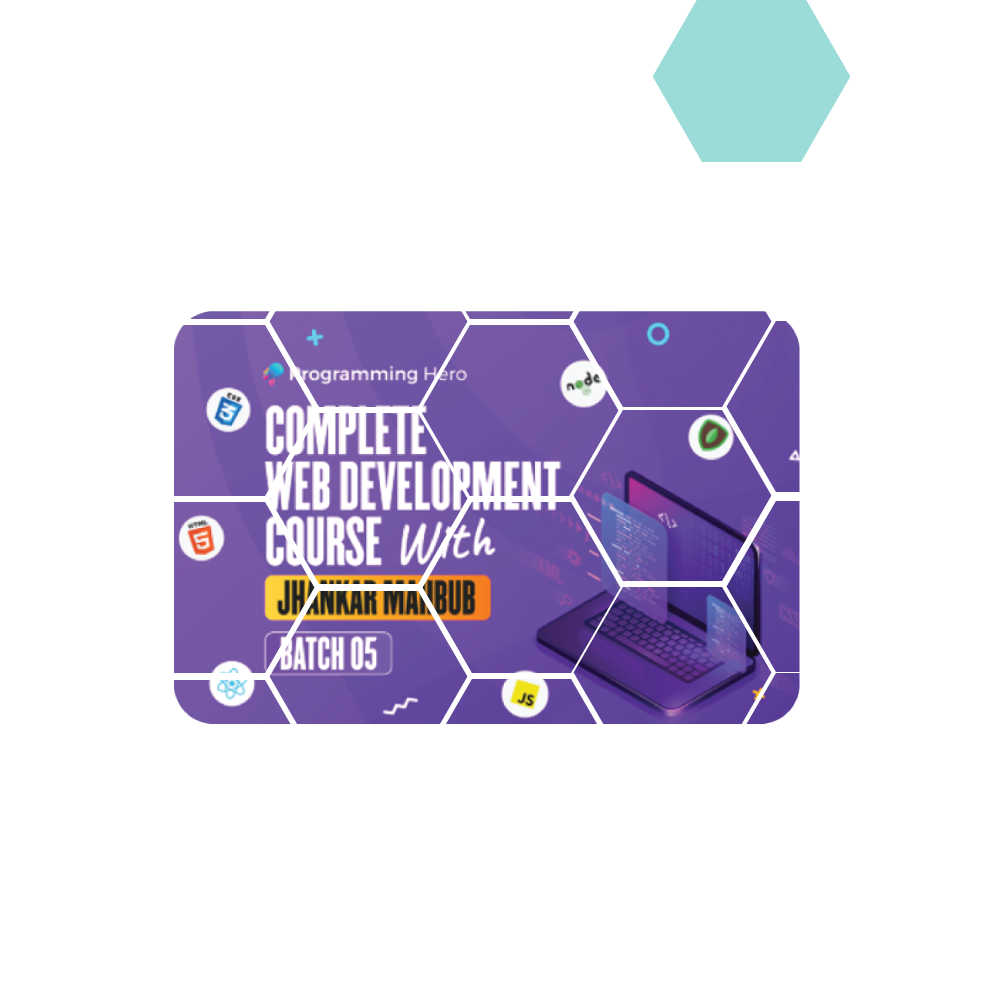
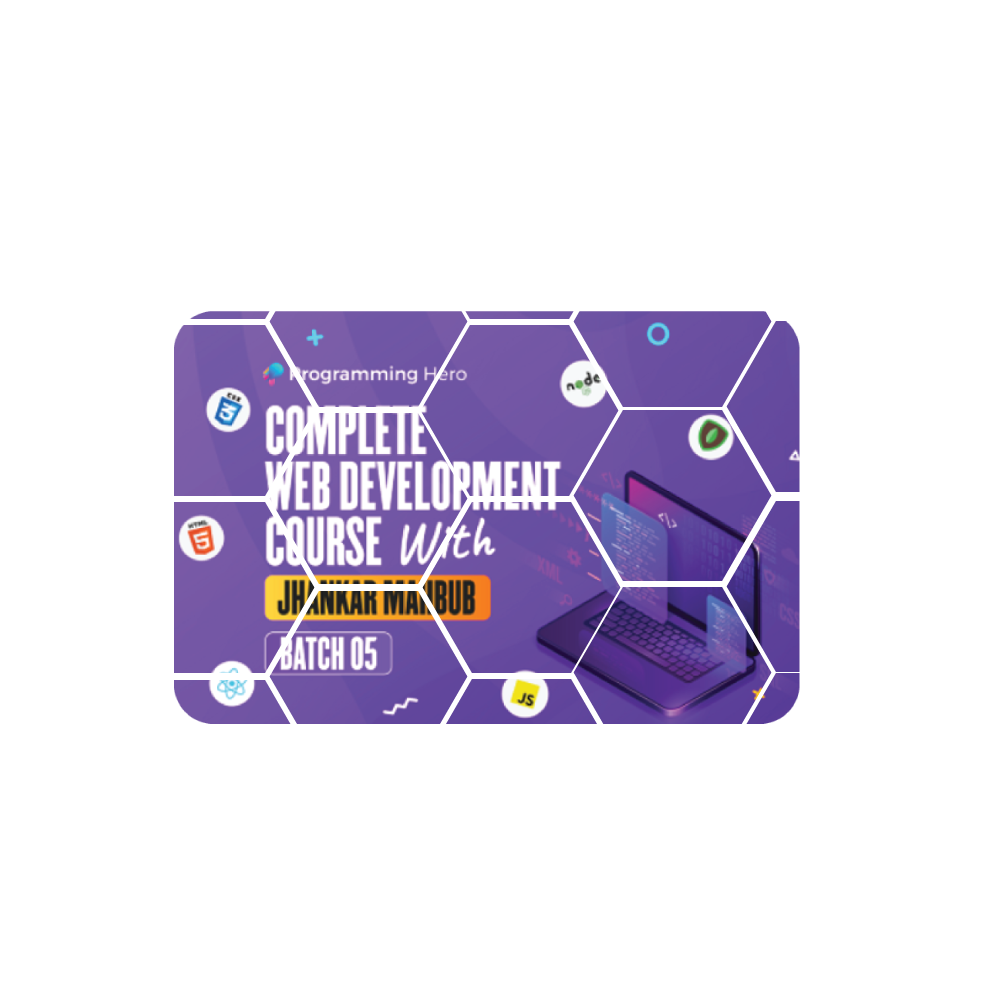
add

Changed region(s): [[0.651, 0.0, 0.868, 0.186]]

diff --git a/style.css b/style.css
@@ -15,15 +15,15 @@ body{
     
 }
 .purpose-point{
-    width:55%;
+    width:75%;
    
    
     
 }
 .purpose-point img{
     width:75%;
-    padding-left:100px;
-    border-radius:30px;
+    padding-left:70px;
+    
  
 }
 .faded{
@@ -114,10 +114,11 @@ body{
     margin-right:20px; 
 }
 .learn-more{
-    background-image: url(images/shapes/shape-6.png);
+    background-image: url(images/dream-bg.png);
     background-repeat: no-repeat;
-    background-size: 200px;
-    background-position:left center;
+    background-size: 80px;
+    background-position: left center;
+    padding-bottom:-1px;
     
 }
 .sharing-datas{
